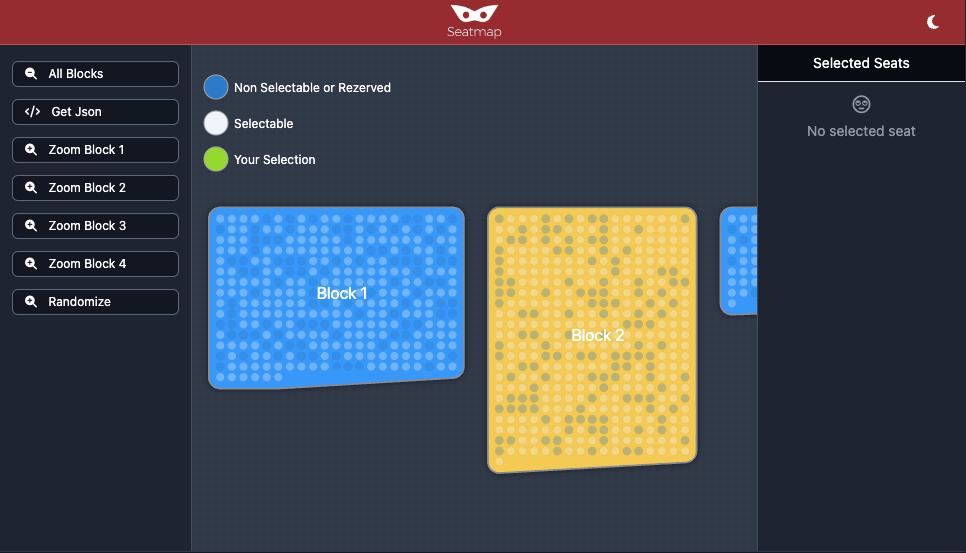
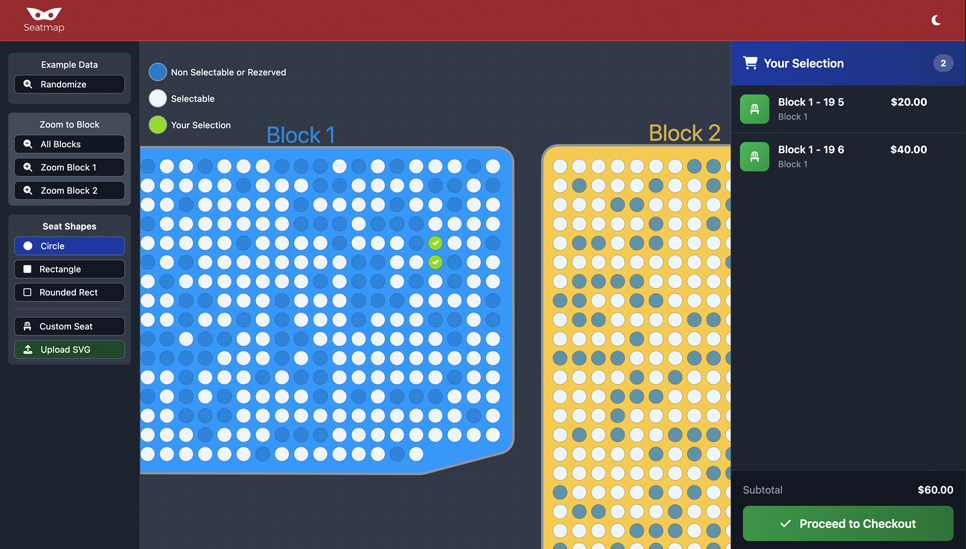
chore(example.js): update blockSize and last_x values for better layout and adjust spacing in the code for improved readability fix(example.js): remove unnecessary empty lines to clean up the code and enhance maintainability fix(screenshot_1.png): update screenshot to reflect recent UI changes

diff --git a/examples/example.js b/examples/example.js
@@ -8,7 +8,7 @@ $(document).ready(function () {
     const profiles = [
         {
             title: 'Default',
-            blockSize: 4,
+            blockSize: 2,
             gapX: 40,
             gapY: 40,
             minItem: 200,
@@ -129,7 +129,7 @@ $(document).ready(function () {
     seatmap.eventManager.addEventListener("SEAT.CLICK", (seat) => {
         // Only allow interaction with salable seats
         if (!seat.item.salable) return;
-        
+
         if (!seat.isSelected()) {
             seat.select()
         } else {
@@ -203,7 +203,7 @@ $(document).ready(function () {
                 seats.push(seat)
             }
 
-            last_x = block_final_x + 320;
+            last_x = block_final_x + 100;
 
             let block = {
                 "id": `block-${j}`,
@@ -310,7 +310,7 @@ $(document).ready(function () {
         // Hide empty state, show footer
         $('#empty-basket').addClass('hidden');
         $('#basket-footer').removeClass('hidden');
-        
+
         let seatsTemplateHtml = ``
 
         for (let i = 0; i < selectedSeats.length; i++) {
@@ -370,7 +370,7 @@ $(document).ready(function () {
             minimumFractionDigits: 2,
             maximumFractionDigits: 2,
         })
-        
+
         $('#selected-seats').html(seatsTemplateHtml)
         $('#subtotal').text(priceFormatted)
 
@@ -441,7 +441,7 @@ $(document).ready(function () {
     $("#proceed-checkout-btn").on("click", function() {
         const selectedSeats = seatmap.data.getSelectedSeats();
         if (selectedSeats.length === 0) return;
-        
+
         // Populate checkout modal
         let seatsHtml = '';
         selectedSeats.forEach((seat, index) => {
@@ -453,16 +453,16 @@ $(document).ready(function () {
                 </div>
             `;
         });
-        
+
         const subtotal = selectedSeats.reduce((sum, seat) => sum + seat.custom_data.price, 0);
         const fee = 5.00;
         const total = subtotal + fee;
-        
+
         $('#checkout-seats').html(seatsHtml);
         $('#checkout-subtotal').text(subtotal.toLocaleString('en-US', { style: 'currency', currency: 'USD' }));
         $('#checkout-fee').text(fee.toLocaleString('en-US', { style: 'currency', currency: 'USD' }));
         $('#checkout-total').text(total.toLocaleString('en-US', { style: 'currency', currency: 'USD' }));
-        
+
         // Show modal
         $("#checkout-modal").removeClass("hidden");
         $("body").addClass("overflow-hidden");
@@ -478,7 +478,7 @@ $(document).ready(function () {
         alert("🎉 Booking confirmed! This is a demo - no actual payment was processed.");
         $("#checkout-modal").addClass("hidden");
         $("body").removeClass("overflow-hidden");
-        
+
         // Optional: Clear selection
         // seatmap.data.getSelectedSeats().forEach(seat => seat.svg.unSelect());
         // updateSelectedSeats();
@@ -488,28 +488,28 @@ $(document).ready(function () {
     $("#svg-upload").on("change", function(e) {
         const file = e.target.files[0];
         if (!file) return;
-        
+
         const reader = new FileReader();
         reader.onload = function(event) {
             try {
                 const svgContent = event.target.result;
                 const parser = new DOMParser();
                 const svgDoc = parser.parseFromString(svgContent, "image/svg+xml");
-                
+
                 // Check for parse errors
                 const parseError = svgDoc.querySelector("parsererror");
                 if (parseError) {
                     alert("Invalid SVG file!");
                     return;
                 }
-                
+
                 // Extract SVG element
                 const svgElement = svgDoc.querySelector("svg");
                 if (!svgElement) {
                     alert("No SVG element found!");
                     return;
                 }
-                
+
                 // Extract viewBox
                 let viewBox = svgElement.getAttribute("viewBox");
                 if (!viewBox) {
@@ -518,16 +518,16 @@ $(document).ready(function () {
                     const height = svgElement.getAttribute("height") || "24";
                     viewBox = `0 0 ${parseFloat(width)} ${parseFloat(height)}`;
                 }
-                
+
                 // Extract path data - try multiple strategies
                 let pathData = "";
-                
+
                 // Strategy 1: Find first <path> element
                 const pathElement = svgElement.querySelector("path");
                 if (pathElement) {
                     pathData = pathElement.getAttribute("d");
                 }
-                
+
                 // Strategy 2: If multiple paths, combine them
                 if (!pathData) {
                     const allPaths = svgElement.querySelectorAll("path");
@@ -538,14 +538,14 @@ $(document).ready(function () {
                             .join(" ");
                     }
                 }
-                
+
                 // Strategy 3: Look for polygon/polyline/rect/circle and convert
                 if (!pathData) {
                     const polygon = svgElement.querySelector("polygon");
                     const polyline = svgElement.querySelector("polyline");
                     const rect = svgElement.querySelector("rect");
                     const circle = svgElement.querySelector("circle");
-                    
+
                     if (polygon) {
                         const points = polygon.getAttribute("points");
                         pathData = `M${points}Z`;
@@ -566,16 +566,16 @@ $(document).ready(function () {
                         pathData = `M${cx-r},${cy}a${r},${r} 0 1,0 ${r*2},0a${r},${r} 0 1,0 ${-r*2},0`;
                     }
                 }
-                
+
                 if (!pathData) {
                     alert("Could not extract path data from SVG!");
                     return;
                 }
-                
+
                 // Apply custom SVG
                 const currentRadius = seatmap.config.style.seat.radius || 15;
                 const shapeSize = currentRadius * 2;
-                
+
                 const shapeConfig = {
                     shape: "path",
                     size: shapeSize,
@@ -583,14 +583,14 @@ $(document).ready(function () {
                     path: pathData,
                     path_box: viewBox
                 };
-                
+
                 // Update button styles
                 $(".shape-btn").removeClass("bg-blue-200 dark:bg-blue-800").addClass("bg-gray-100 dark:bg-gray-900");
-                
+
                 // Show custom SVG info
                 $("#custom-svg-name").text(file.name);
                 $("#custom-svg-info").removeClass("hidden");
-                
+
                 // Update seatmap configuration
                 seatmap.config.style.seat.shape = shapeConfig.shape;
                 seatmap.config.style.seat.size = shapeConfig.size;
@@ -598,41 +598,41 @@ $(document).ready(function () {
                 seatmap.config.style.seat.path = shapeConfig.path;
                 seatmap.config.style.seat.path_box = shapeConfig.path_box;
                 seatmap.config.style.seat.svg = null;
-                
+
                 // Regenerate entire stage with new shape
                 seatmap.svg.stage.blocks.clear();
                 seatmap.svg.stage.blocks.update();
-                
+
                 // Recalculate zoom levels and reset to venue view
                 seatmap.zoomManager.calculateZoomLevels(seatmap.data.getBlocks());
                 seatmap.zoomManager.calculateActiveBlocks(seatmap.data.getBlocks());
                 seatmap.zoomManager.zoomToVenue(false);
-                
+
             } catch (error) {
                 console.error("Error parsing SVG:", error);
                 alert("Error processing SVG file: " + error.message);
             }
         };
-        
+
         reader.readAsText(file);
     });
 
     // Shape selection handlers
     $(".shape-btn").on("click", function() {
         const selectedShape = $(this).data("shape");
-        
+
         // Hide custom SVG info
         $("#custom-svg-info").addClass("hidden");
-        
+
         // Update button styles
         $(".shape-btn").removeClass("bg-blue-200 dark:bg-blue-800").addClass("bg-gray-100 dark:bg-gray-900");
         $(this).removeClass("bg-gray-100 dark:bg-gray-900").addClass("bg-blue-200 dark:bg-blue-800");
-        
+
         // Apply shape configuration
         // Get current radius from seatmap config
         const currentRadius = seatmap.config.style.seat.radius || 15;
         const shapeSize = currentRadius * 2;  // Match circle diameter
-        
+
         let shapeConfig = {
             shape: "circle",
             size: shapeSize,
@@ -641,7 +641,7 @@ $(document).ready(function () {
             path_box: "0 0 24 24",
             svg: null
         };
-        
+
         switch(selectedShape) {
             case "circle":
                 shapeConfig.shape = "circle";
@@ -659,7 +659,7 @@ $(document).ready(function () {
                 shapeConfig.svg = "assets/custom_seat.svg";
                 break;
         }
-        
+
         // Update seatmap configuration
         seatmap.config.style.seat.shape = shapeConfig.shape;
         seatmap.config.style.seat.size = shapeConfig.size;
@@ -667,11 +667,11 @@ $(document).ready(function () {
         seatmap.config.style.seat.path = shapeConfig.path;
         seatmap.config.style.seat.path_box = shapeConfig.path_box;
         seatmap.config.style.seat.svg = shapeConfig.svg;
-        
+
         // Regenerate entire stage with new shape
         seatmap.svg.stage.blocks.clear();
         seatmap.svg.stage.blocks.update();
-        
+
         // Recalculate zoom levels and reset to venue view
         seatmap.zoomManager.calculateZoomLevels(seatmap.data.getBlocks());
         seatmap.zoomManager.calculateActiveBlocks(seatmap.data.getBlocks());